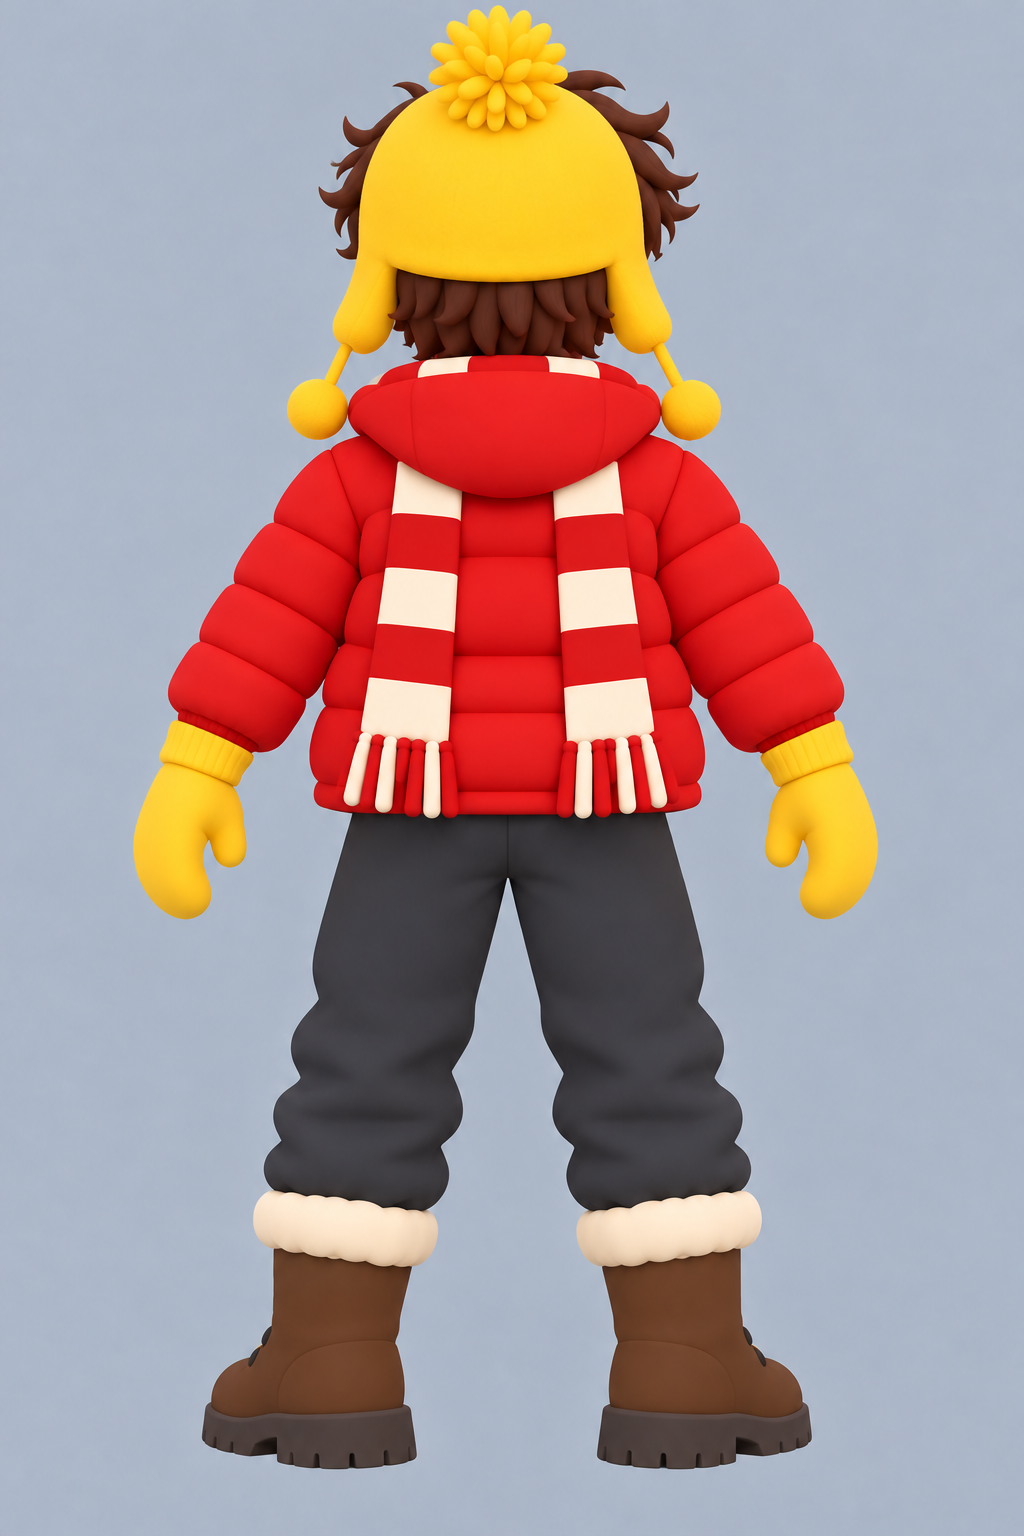
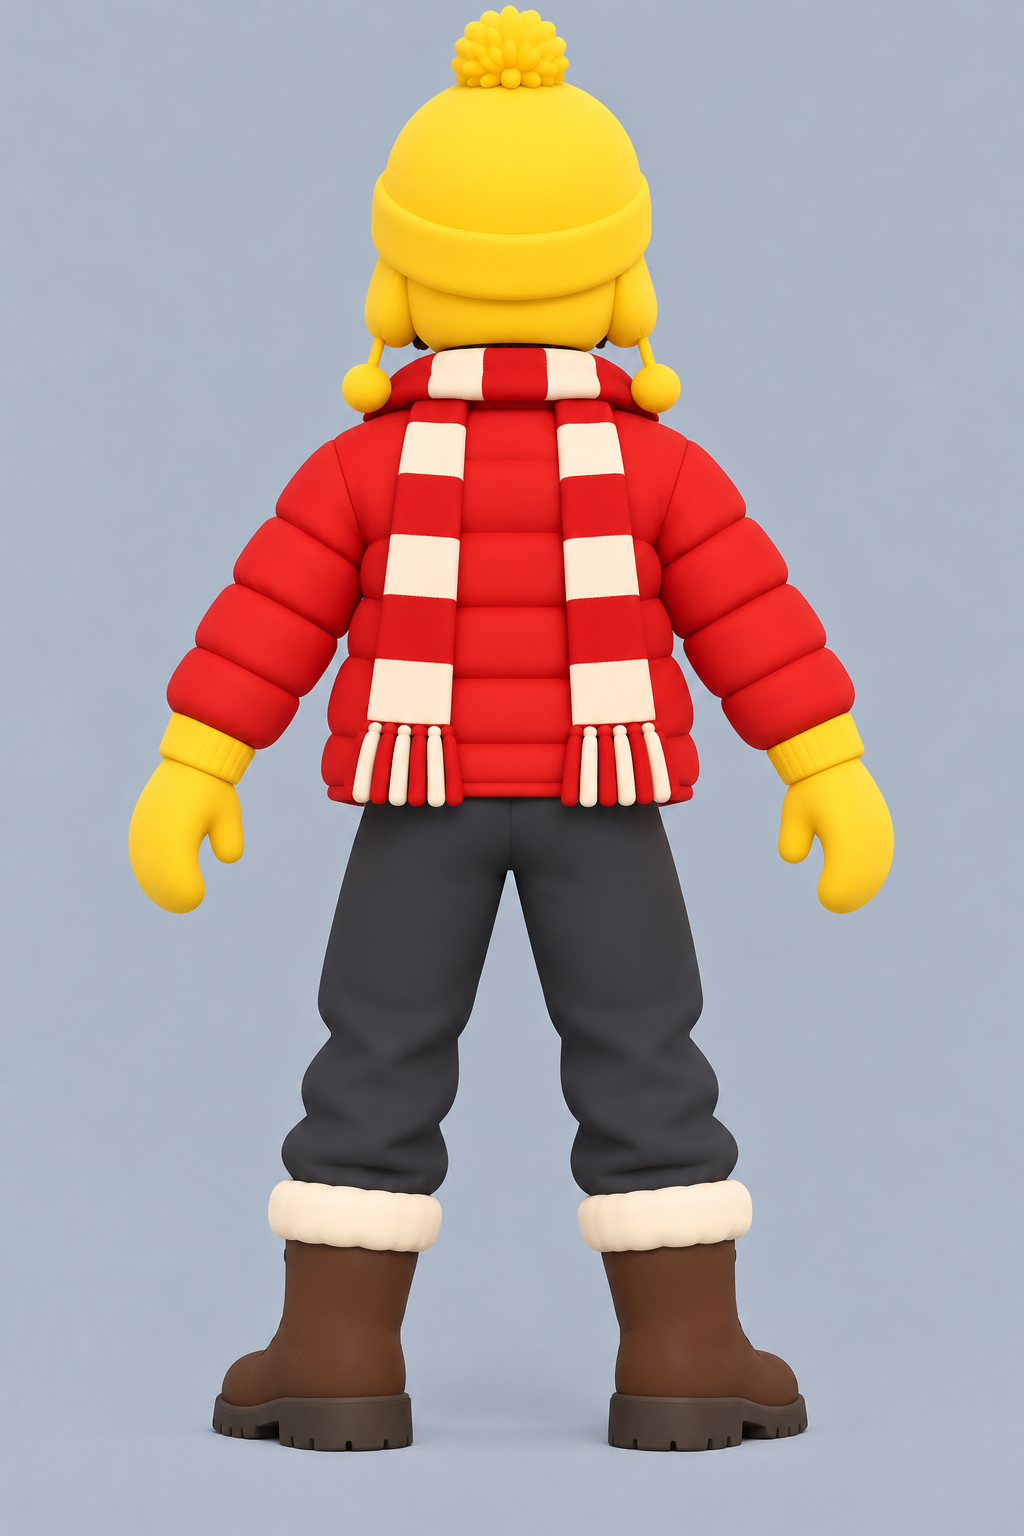
TOON_WORKFLOW: skins workflow 2 as one run - redo Snow Day Muscle's two pictures (hat covers his head) then make and paint all 8 skin models

diff --git a/TOON_WORKFLOW.md b/TOON_WORKFLOW.md
@@ -254,17 +254,25 @@ Table for each [Picture], [Reference] and [file name] combination is below:
 
 Send Claude the 16 pictures to check before the models.
 
-### Skins workflow 2 - the models
+### Skins workflow 2 - the models (one run, updated 10 Oct)
 
-The same script as the characters - it makes each model and paints it
-(colors corrected, back from the back picture, seams padded). **Close Roblox
-Studio first** (the graphics card needs all its memory).
+The 16 skin pictures were checked on 10 Oct: 7 skins good; Snow Day Muscle's
+hat had hair both above and through it, so this run first redoes his two
+pictures, then makes and paints all 8 models. **Close Roblox Studio first**
+(the graphics card needs all its memory).
 
 ```
-create new workflow to make the 3D models for [Model] using the [Run Standard]. For each row of the table, in order: run the [Run Standard] command with that row's [Model], wait until it prints "DONE", then tell me that row's [file name], its "triangles" number and whether it printed "FAILED". If a row FAILED, show me the last 20 lines it printed and go on to the next row. Do not change tools\make_toon_models.py or tools\paint_toon.py, do not write a new script, do not change any settings, and do not edit any other file.
-[Run Standard] = open a terminal in "C:\Users\bwood\OneDrive\Documents\Kids Games\Do You Know Where You Are" and run:
+create new workflow to make the skin 3D models in two steps. Do not change tools\make_toon_models.py or tools\paint_toon.py, do not write a new script, do not change any settings, and do not edit any other file.
+STEP 1 - redo the two Snow Day Muscle pictures. For each row of [Picture Table], attach every [Reference] picture listed, in that order, make the picture from the [Picture Standard] plus that row's [Picture], and save it to "C:\Users\bwood\OneDrive\Documents\Kids Games\Do You Know Where You Are\art\model-input\[file name]", replacing the file already there. Make the front first: the back uses it as its reference.
+[Picture Standard] = "For a FRONT view two pictures are attached: the FIRST is the character's approved toon look - keep exactly his face, eye color, skin tone and style; the SECOND is the outfit. For a BACK view one picture is attached: the same character in the same outfit, seen from directly behind. Clean, simple 3D cartoon toy style: every area one smooth, flat, solid color, no texture, no shading painted on. Warm skin tone. No logos. Full body in an A-pose: arms straight and angled down and away from the body, hands open, legs slightly apart, feet flat. Centered, filling the whole height. Plain flat light-gray background, even soft light. One character only, no text."
+[Picture Table]:
+[Picture] | [Reference] | [file name]
+[FRONT view of Snow Day Muscle: Muscle wearing a yellow knit winter hat pulled down snugly over his whole head like a real hat - the hat covers the top and sides of his head completely; only a short neat fringe of his brown hair shows across the forehead just under the hat's folded brim; NO hair sticking up above the hat, NO hair poking out through or around the sides; a round yellow pom-pom on top; ear flaps covering both ears, each with a yellow yarn tie and small pom-pom. A puffy red winter jacket over a cream sweater with a simple white snowflake, a red-and-cream striped scarf, yellow mittens, plain dark gray snow pants with NO pockets, plain brown snow boots with cream fur trim.] | [model-input\muscle\front-toon.png, model-input\snow-day-muscle\a-pose-front.png] | [snow-day-muscle\front-toon.png]
+[BACK view of Snow Day Muscle, matching the reference exactly: the back of the yellow knit hat covers the whole back of his head down to the neck - smooth yellow knit, no hair showing above or through it, the ear-flap ties hanging down; the back of the puffy red jacket with the scarf ends, yellow mittens, plain gray snow pants, brown boots.] | [model-input\snow-day-muscle\front-toon.png] | [snow-day-muscle\back-toon.png]
+STEP 2 - make the 8 skin models. For each row of [Model Table], in order: open a terminal in "C:\Users\bwood\OneDrive\Documents\Kids Games\Do You Know Where You Are" and run:
 "C:\Users\bwood\Documents\Codex\2026-10-05\referenced-chatgpt-conversation-this-is-an\work\sf3d-venv\Scripts\python.exe" tools\make_toon_models.py [Model]
-Table for each [Model] and [file name] combination is below:
+wait until it prints "DONE", then tell me that row's [file name], its "triangles" number and whether it printed "FAILED". If a row FAILED, show me the last 20 lines it printed and go on to the next row.
+[Model Table]:
 [Model] | [file name]
 [tinker-pumpkin] | [art\models\tinker-pumpkin-toon.glb]
 [ghostly-shadow] | [art\models\ghostly-shadow-toon.glb]
@@ -276,15 +284,10 @@ Table for each [Model] and [file name] combination is below:
 [muscle-mummy] | [art\models\muscle-mummy-toon.glb]
 ```
 
-Or without the workflow, in PowerShell (all 8, about 10 minutes):
-
-```
-cd "C:\Users\bwood\OneDrive\Documents\Kids Games\Do You Know Where You Are"
-& "C:\Users\bwood\Documents\Codex\2026-10-05\referenced-chatgpt-conversation-this-is-an\work\sf3d-venv\Scripts\python.exe" tools\make_toon_models.py tinker-pumpkin ghostly-shadow candy-glow space-cadet-brainy snow-day-muscle starlight-echo autumn-leaf-bramble muscle-mummy
-```
-
-Then Claude renders each model. Into Studio (Party House): Import 3D ->
-Avatar Setup -> ServerStorage -> Characters, named:
+Then tell Claude: Claude checks Snow Day Muscle's two new pictures and
+renders all 8 models (if his hat is still wrong, only his row is redone).
+Into Studio (Party House): Import 3D -> Avatar Setup -> ServerStorage ->
+Characters, named:
 
 | File | Name in Studio |
 |---|---|
@@ -301,4 +304,5 @@ Each is already switched on for Brent (`Config.STUDIO_TRY_MODEL`): wear the
 skin in the Lobby, play it in Party House. When one looks right: move the old
 skin model to ServerStorage -> CharactersOld, rename the toon to the old name
 (e.g. TinkerPumpkinToon -> TinkerPumpkin), right-click -> Save to Roblox, and
-send Claude the id (the Lobby's 3D view loads it).
+send Claude the id (the Lobby's 3D view loads it). Each skin also gets a crisp
+face picture (tools/make_face.py) once Echo's face test passes.
